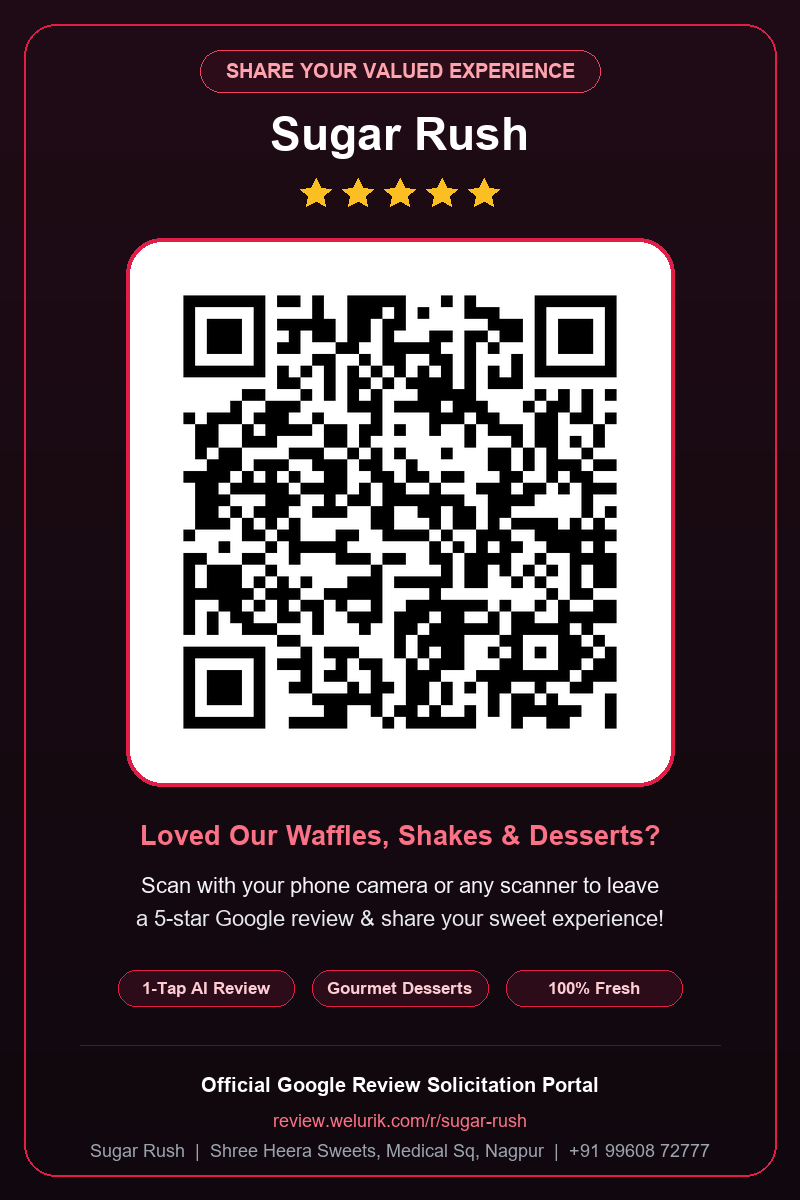
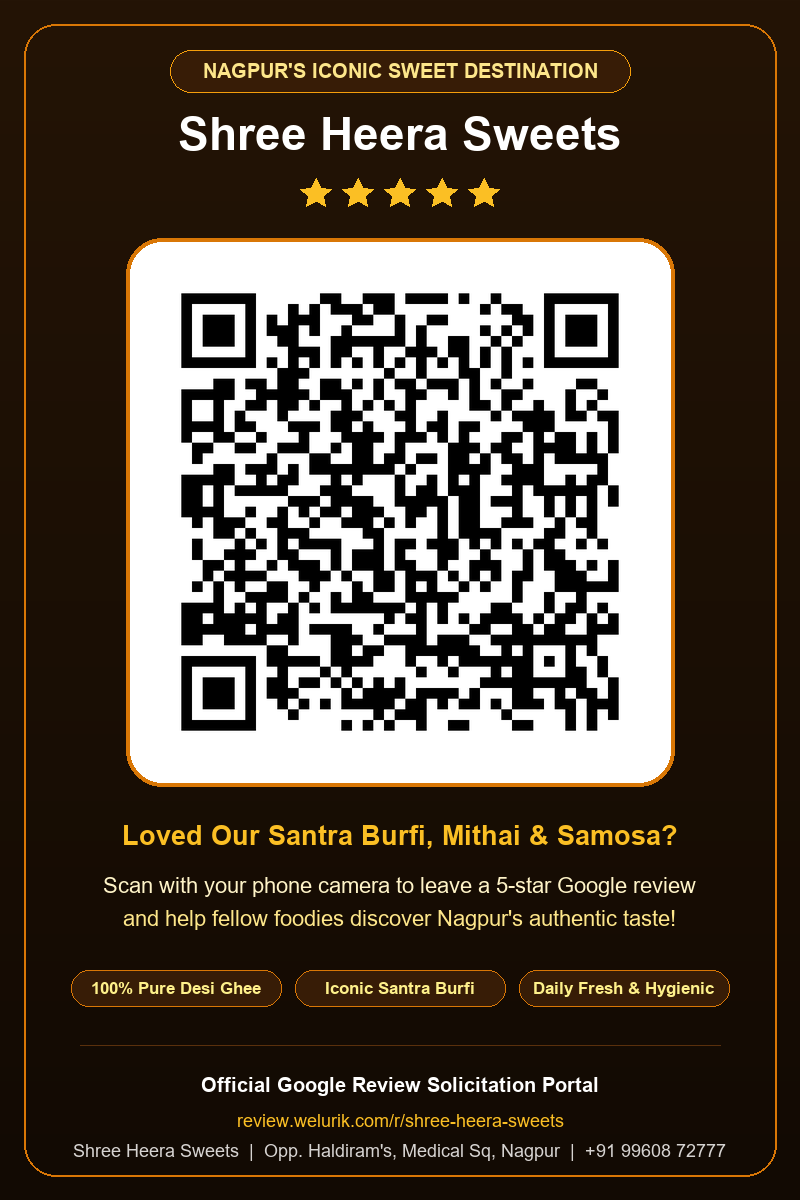
fix(client): update client profile and standee to Shree Heera Sweets traditional sweet shop

diff --git a/scripts/create_heera_sweets_standee.py b/scripts/create_heera_sweets_standee.py
@@ -1,0 +1,121 @@
+import math
+import os
+from PIL import Image, ImageDraw, ImageFont
+
+width = 800
+height = 1200
+
+# Luxury rich kesar / saffron mithai obsidian background
+img = Image.new('RGB', (width, height), color=(28, 16, 4))
+draw = ImageDraw.Draw(img)
+
+# Deep royal amber-gold gradient
+for y in range(height):
+    ratio = y / height
+    r = int(36 * (1 - ratio) + 18 * ratio)
+    g = int(20 * (1 - ratio) + 10 * ratio)
+    b = int(6 * (1 - ratio) + 3 * ratio)
+    draw.line([(0, y), (width, y)], fill=(r, g, b))
+
+# Fonts
+try:
+    font_eyebrow = ImageFont.truetype('arialbd.ttf', 20)
+    font_title = ImageFont.truetype('arialbd.ttf', 46)
+    font_sub = ImageFont.truetype('arialbd.ttf', 27)
+    font_desc = ImageFont.truetype('arial.ttf', 22)
+    font_pill = ImageFont.truetype('arialbd.ttf', 17)
+    font_footer = ImageFont.truetype('arialbd.ttf', 20)
+    font_footersub = ImageFont.truetype('arial.ttf', 18)
+except Exception:
+    font_eyebrow = font_title = font_sub = font_desc = font_pill = font_footer = font_footersub = ImageFont.load_default()
+
+# 1. Outer Border with warm gold / kesar glow
+draw.rounded_rectangle([24, 24, width - 24, height - 24], radius=32, outline=(217, 119, 6, 120), width=2)
+
+# 2. Top Eyebrow Tag
+badge_text = "NAGPUR'S ICONIC SWEET DESTINATION"
+badge_w = 460
+badge_h = 42
+bx = (width - badge_w) // 2
+by = 50
+draw.rounded_rectangle([bx, by, bx + badge_w, by + badge_h], radius=21, fill=(55, 28, 6), outline=(245, 158, 11), width=1)
+draw.text((width // 2, by + (badge_h // 2)), badge_text, fill=(253, 230, 138), font=font_eyebrow, anchor="mm")
+
+# 3. Business Title
+draw.text((width // 2, 134), "Shree Heera Sweets", fill=(255, 255, 255), font=font_title, anchor="mm")
+
+# 4. 5 Gold Stars
+star_spacing = 42
+start_x = width // 2 - 2 * star_spacing
+for i in range(5):
+    cx = start_x + i * star_spacing
+    cy = 194
+    coords = []
+    for s in range(10):
+        r = 16 if s % 2 == 0 else 7.5
+        angle = math.pi / 2 * 3 + s * (math.pi / 5)
+        coords.append((cx + math.cos(angle) * r, cy + math.sin(angle) * r))
+    draw.polygon(coords, fill=(251, 191, 36))
+
+# 5. QR Code White Frame Container
+container_w = 540
+container_h = 540
+cx = (width - container_w) // 2
+cy = 242
+# Outer soft saffron glow
+draw.rounded_rectangle([cx - 4, cy - 4, cx + container_w + 4, cy + container_h + 4], radius=36, fill=(217, 119, 6, 80))
+# Crisp white card
+draw.rounded_rectangle([cx, cy, cx + container_w, cy + container_h], radius=32, fill=(255, 255, 255))
+
+# Paste QR Code
+qr_path = "e:/anti/google review app/public/shree-heera-sweets-qr.png"
+if os.path.exists(qr_path):
+    qr_img = Image.open(qr_path)
+    qr_resized = qr_img.resize((480, 480), Image.Resampling.LANCZOS)
+    img.paste(qr_resized, ((width - 480) // 2, cy + 30))
+
+# 6. Headline Prompt
+draw.text((width // 2, 835), "Loved Our Santra Burfi, Mithai & Samosa?", fill=(251, 191, 36), font=font_sub, anchor="mm")
+
+# 7. Subtitle Instructions
+line1 = "Scan with your phone camera to leave a 5-star Google review"
+line2 = "and help fellow foodies discover Nagpur's authentic taste!"
+draw.text((width // 2, 885), line1, fill=(254, 243, 199), font=font_desc, anchor="mm")
+draw.text((width // 2, 918), line2, fill=(253, 230, 138), font=font_desc, anchor="mm")
+
+# 8. Micro Trust Pillars
+pills = ["100% Pure Desi Ghee", "Iconic Santra Burfi", "Daily Fresh & Hygienic"]
+pill_w = 210
+pill_h = 36
+spacing = 14
+total_pills_w = len(pills) * pill_w + (len(pills) - 1) * spacing
+start_px = (width - total_pills_w) // 2
+py = 970
+
+for idx, p in enumerate(pills):
+    px = start_px + idx * (pill_w + spacing)
+    draw.rounded_rectangle([px, py, px + pill_w, py + pill_h], radius=18, fill=(55, 28, 6), outline=(217, 119, 6), width=1)
+    draw.text((px + pill_w // 2, py + pill_h // 2), p, fill=(254, 240, 138), font=font_pill, anchor="mm")
+
+# 9. Divider line
+draw.line([(80, 1045), (width - 80, 1045)], fill=(90, 48, 12), width=1)
+
+# 10. Footer Brand & Google Attribution
+draw.text((width // 2, 1085), "Official Google Review Solicitation Portal", fill=(255, 255, 255), font=font_footer, anchor="mm")
+draw.text((width // 2, 1120), "review.welurik.com/r/shree-heera-sweets", fill=(251, 191, 36), font=font_footersub, anchor="mm")
+draw.text((width // 2, 1150), "Shree Heera Sweets  |  Opp. Haldiram's, Medical Sq, Nagpur  |  +91 99608 72777", fill=(214, 211, 209), font=font_footersub, anchor="mm")
+
+# Output files
+out_artifact_heera = "C:/Users/Nitin Sharma/.gemini/antigravity/brain/53a06f14-de5f-4055-83e6-503359e97f82/shree-heera-sweets-standee.png"
+out_public_heera = "e:/anti/google review app/public/shree-heera-sweets-standee.png"
+
+# Also update sugar-rush-standee.png so both paths have the sweet shop branding
+out_artifact_sugar = "C:/Users/Nitin Sharma/.gemini/antigravity/brain/53a06f14-de5f-4055-83e6-503359e97f82/sugar-rush-standee.png"
+out_public_sugar = "e:/anti/google review app/public/sugar-rush-standee.png"
+
+img.save(out_artifact_heera, quality=95)
+img.save(out_public_heera, quality=95)
+img.save(out_artifact_sugar, quality=95)
+img.save(out_public_sugar, quality=95)
+
+print("SUCCESS: Shree Heera Sweets standee saved successfully!")
